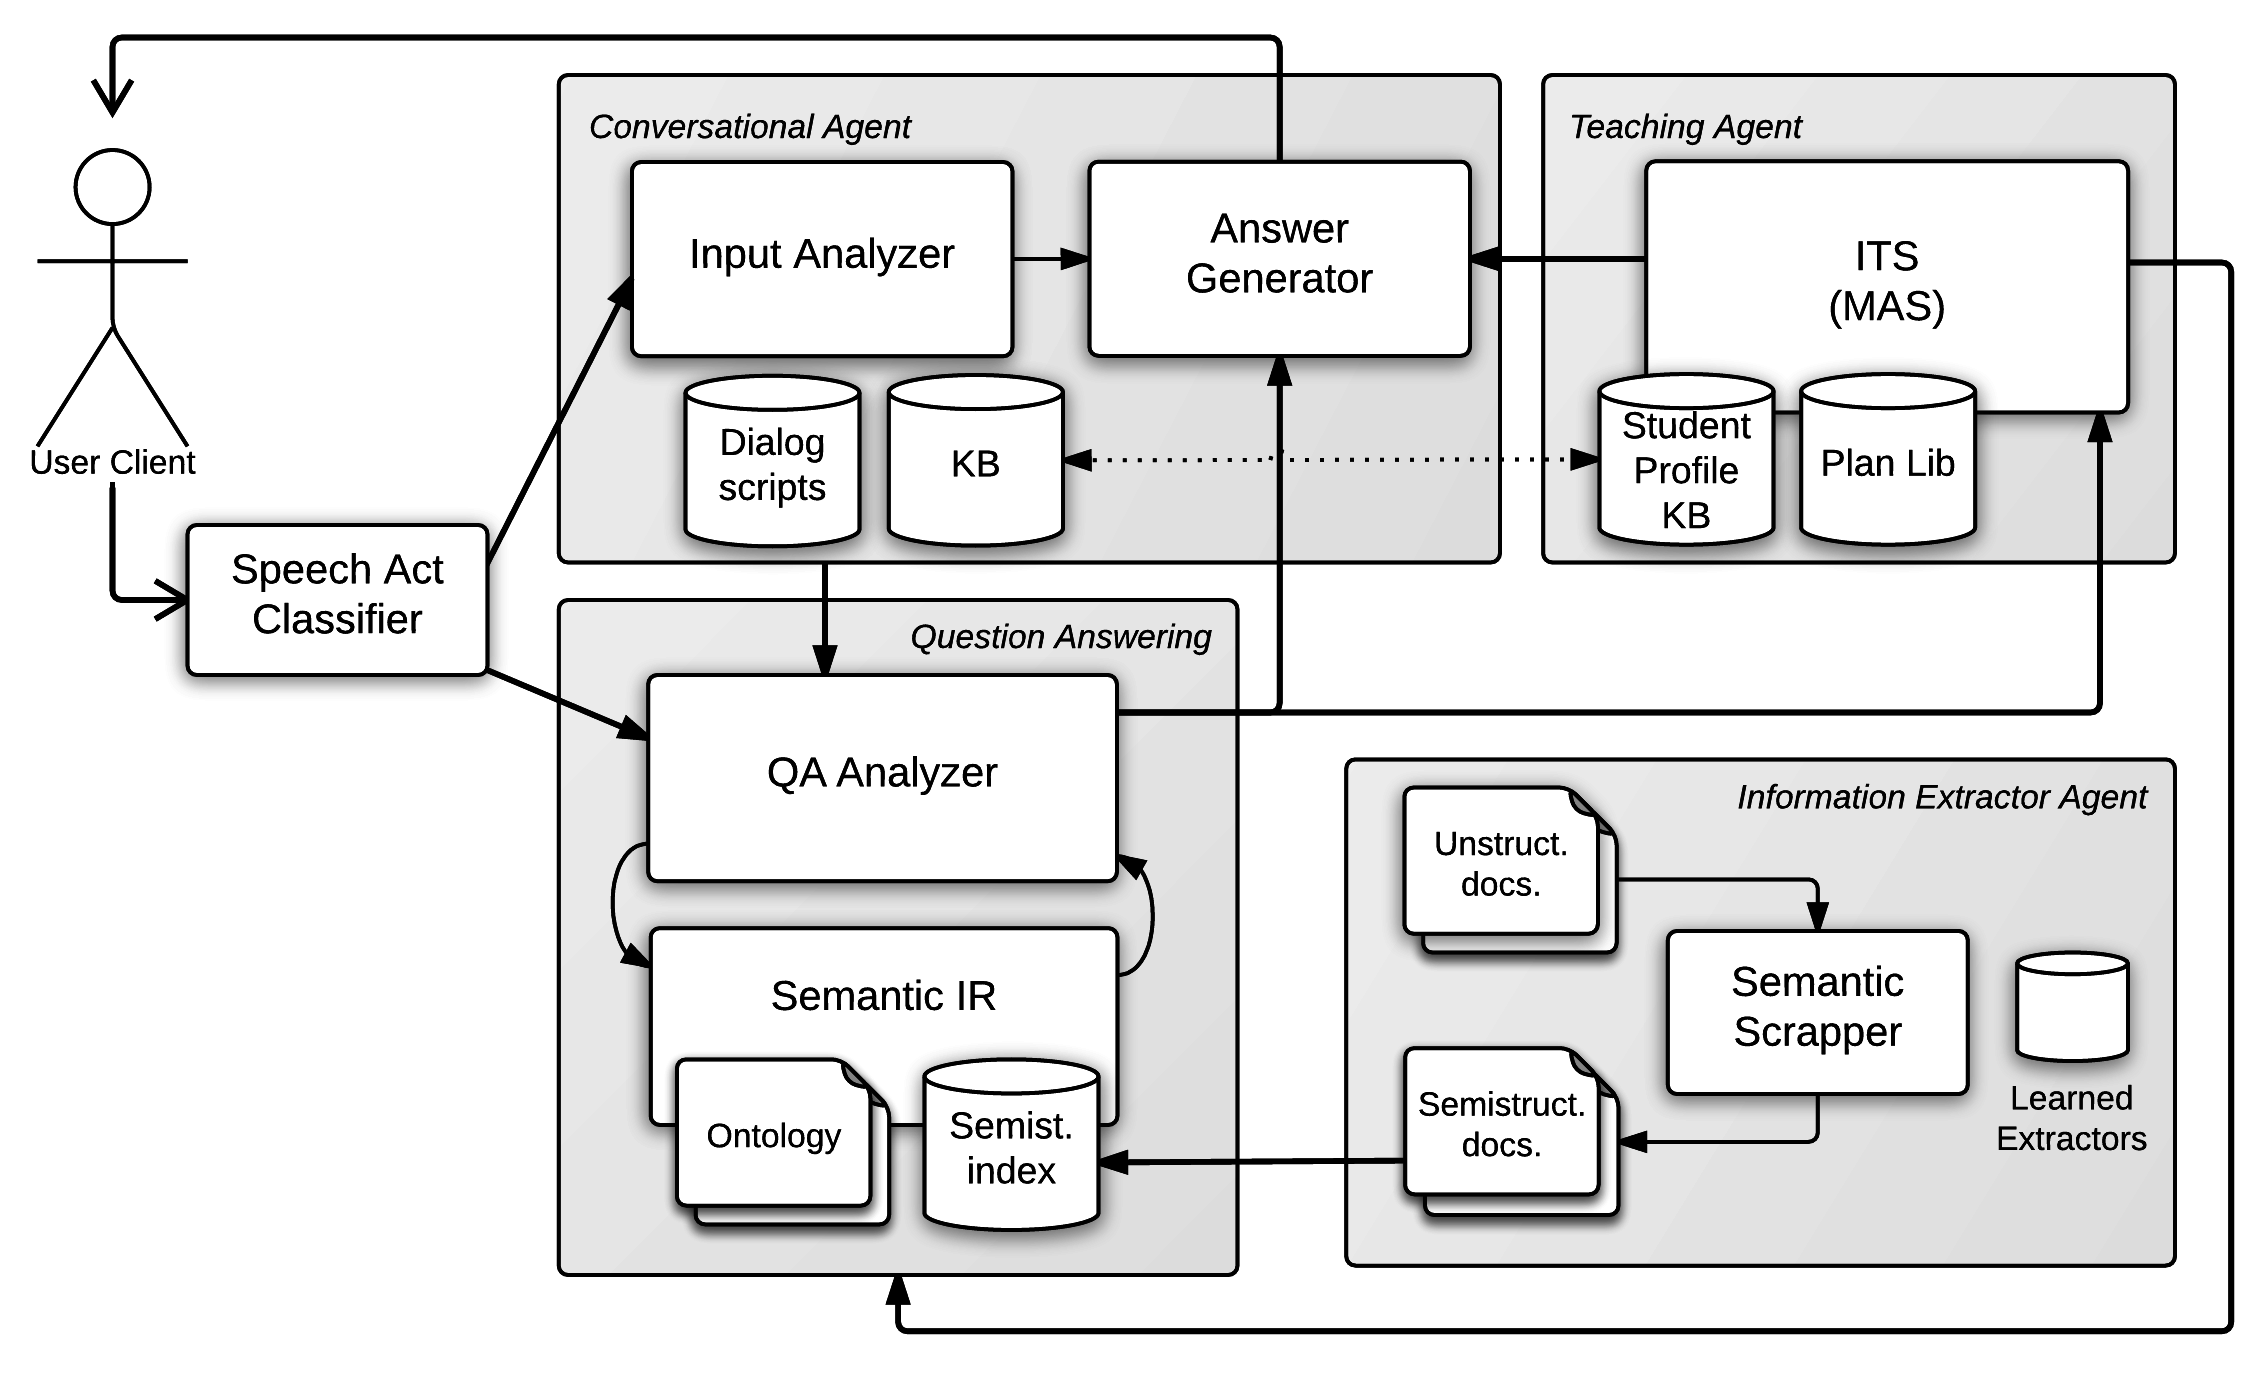
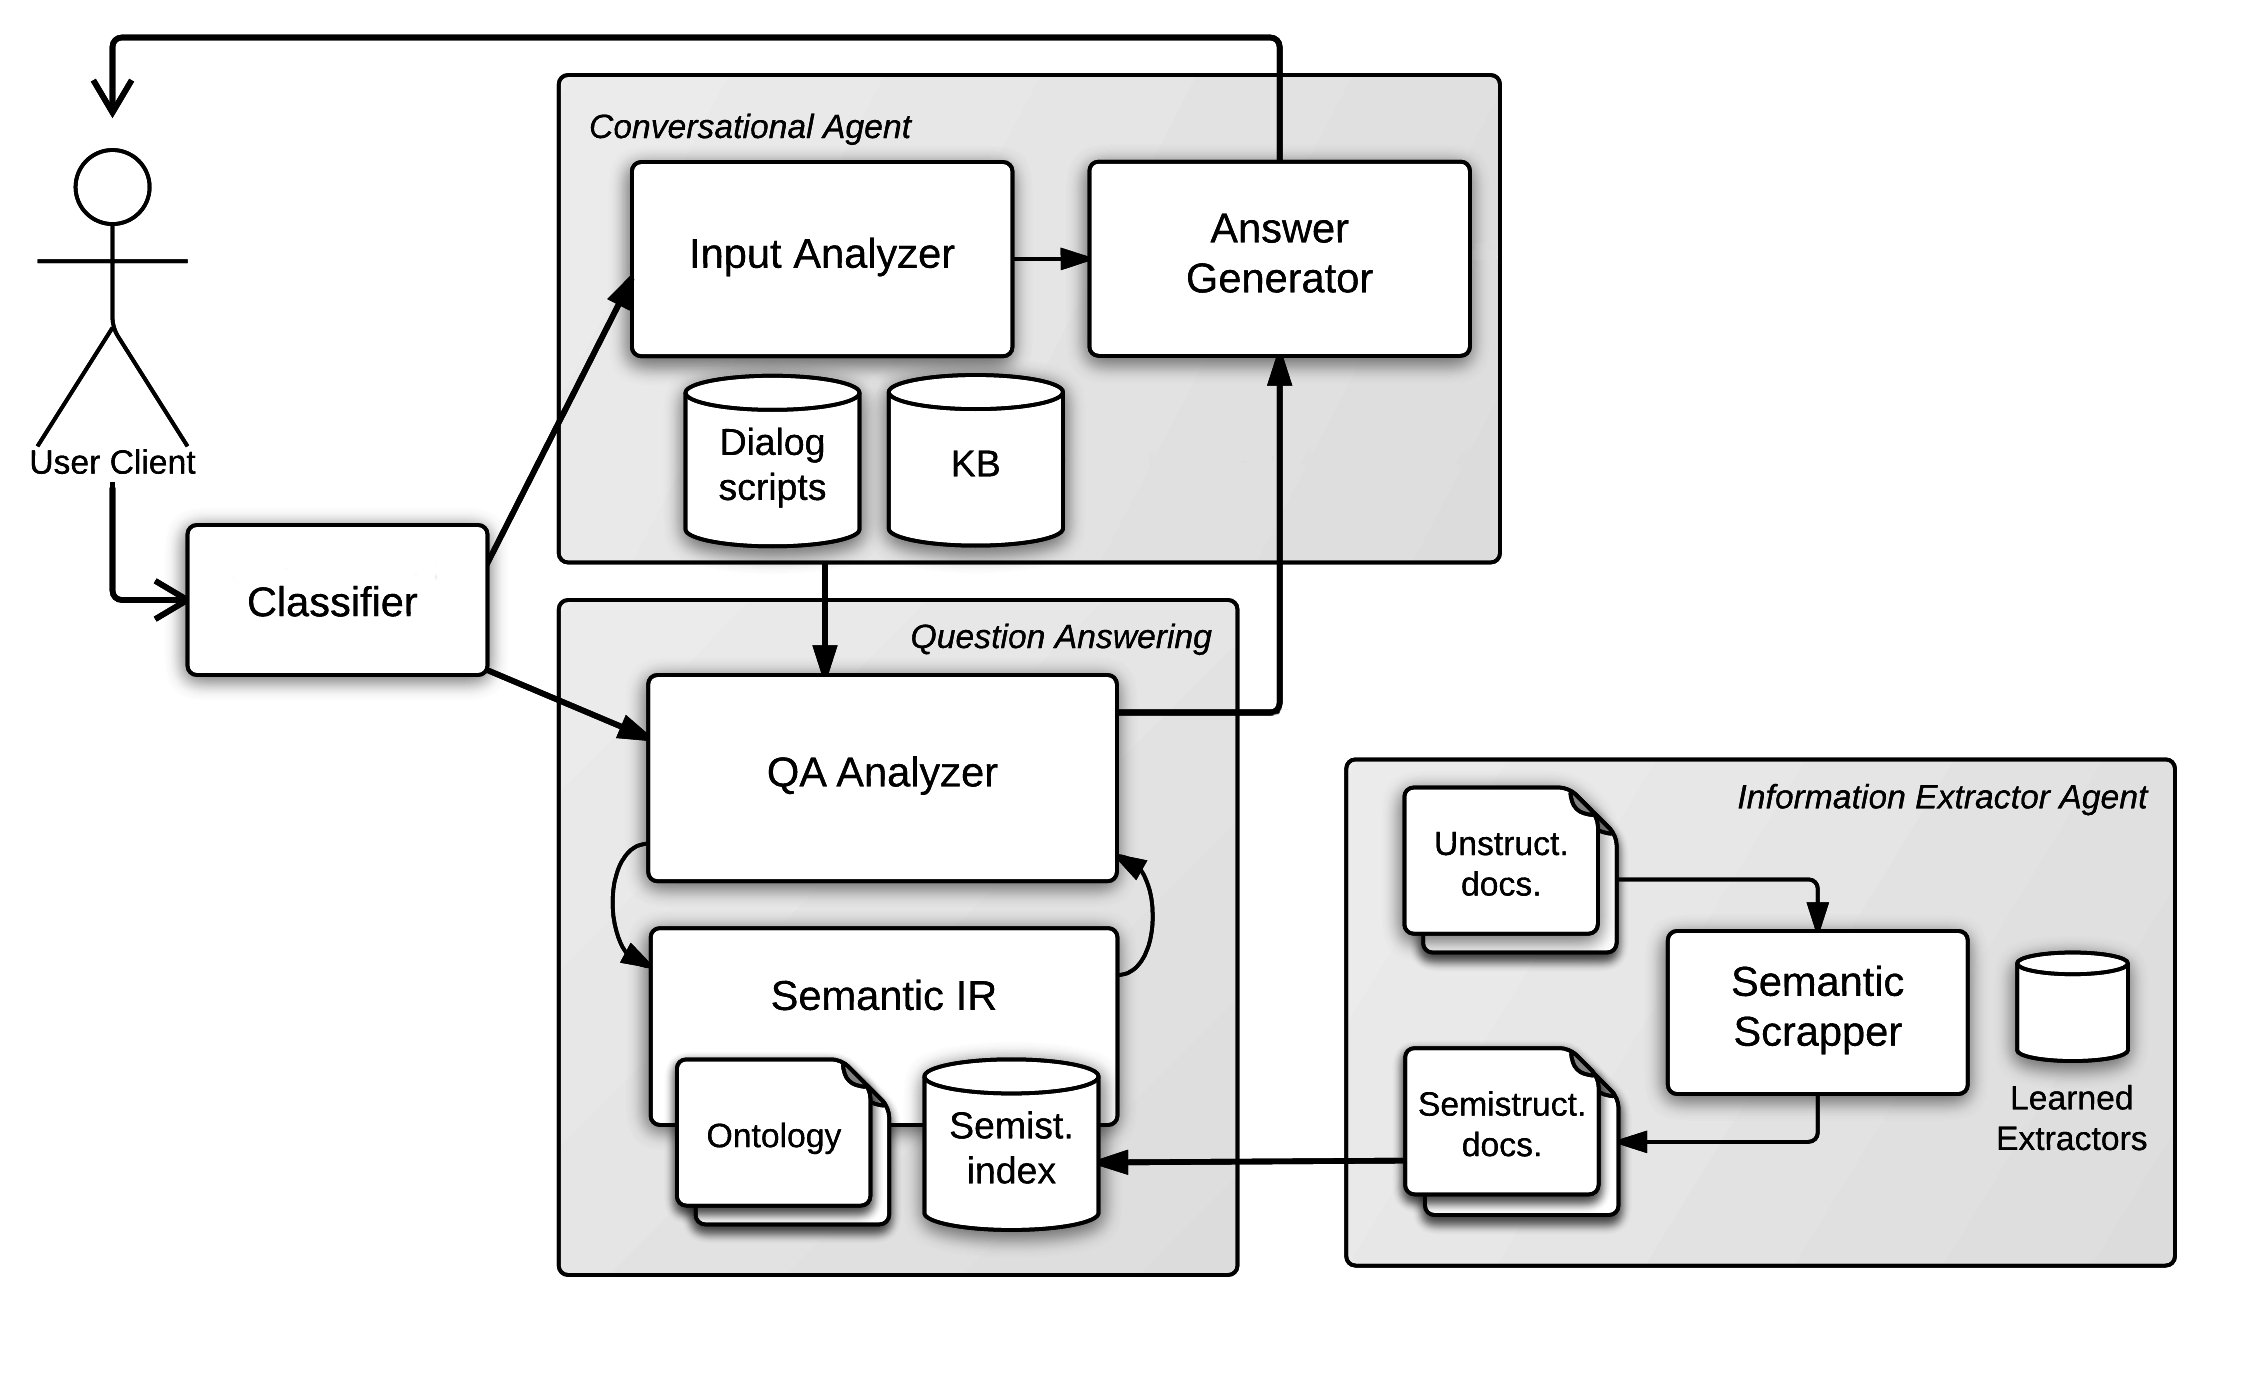
Modified architecture according to feedback

diff --git a/4-architecture.tex b/4-architecture.tex
@@ -14,14 +14,14 @@ In this section, we describe the overall architecture of a QA system that featur
 In this section we will describe the architecture of our system, starting with the modules identified in the requirements. These requirements are:
 \begin{enumerate}[noitemsep, label=(\roman*)]
  \item Present the user with a simple interface for their questions, and to present them with the answers.
- \item Classify each input according to the speech act it performs.
+ \item Classify each input  and handle it to the appropriate module.
  \item Track dialogue options according to the speech.
  \item Implement a QA system being able to search the document library and extract a short answer.
  \item Extend the documents library, scrapping external documents and producing semi-structured indexes.
  \item Follow up the learning process, and use it to improve the learning experience. 
 \end{enumerate}
 
-In figure \ref{fig:arch1} we show the global architecture of the system, identifying four main modules: Conversational Agent, Teaching Agent, Question Answering and Information Extraction Agent. In the rest of this section we will discuss the function of each module.
+In figure \ref{fig:arch1} we show the global architecture of the system, identifying the main modules: Conversational Agent, Question Answering and Information Extraction Agent. In the rest of this section we will discuss the function of each module.
 
 \begin{figure}[!htbp]
     \centering
@@ -30,7 +30,7 @@ In figure \ref{fig:arch1} we show the global architecture of the system, identif
     \label{fig:arch1}
 \end{figure}
 
-The speech act classifier receives the user queries. It provides an endpoint that the user-agent (or different user-agents) uses to post the requests and obtain responses (i.e. the system interface). The speech act classifier routes the user query to the conversational agent or the \ac{QA} modules depending on the speech act detected. Nevertheless, the architecture may be extended with additional modules that handle other speech acts. This classifier is usually implemented using a supervised machine learning approach with algorithms such as decision trees or naive Bayes that provide decent results for this purpose~\cite{Samei2014,Moldovan2011}. The classifier carries out a preliminary analysis of the query, since other modules will perform a deeper analysis of the input depending on the speech act they handle.
+The classifier receives the user queries. It provides an endpoint that the user-agent (or different user-agents) uses to post the requests and obtain responses (i.e. the system interface). The classifier then routes the user query to the conversational agent or the \ac{QA} modules depending on how the input is classified. Nevertheless, the architecture may be extended with additional modules for multiple types of input. This classifier is usually implemented using a supervised machine learning approach with algorithms such as decision trees or naive Bayes that provide decent results for this purpose~\cite{Samei2014,Moldovan2011}. The classifier carries out a preliminary analysis of the query, since other modules will perform a deeper analysis of the input depending on the kind of input they handle.
 
 \subsection{Conversational Agent}
 
@@ -39,8 +39,8 @@ The Input Analyser inside the Conversational Agent, performs a script based anal
 
 The Conversational Agent, by means of the Answer Generator, is also in change of generating the answers that will be sent to the users. These are also stored in the dialogue scripts. 
 In the most common scenario, the small talk input is analysed by the Input Analyser and tells the Answer Generator to given a particular answer in response.
-However, the \ac{QA} and the Teaching Agent modules can also instruct the Answer Generator to send a response to the user.
-In those cases, the Conversational Agent generates the answer according to the topic and former utterances, giving it a particular touch when needed.
+However, the \ac{QA} can also instruct the Answer Generator to send a response to the user.
+In that case, the Conversational Agent generates the answer according to the topic and former utterances, giving it a particular touch when needed.
 Besides the textual response that is presented to the user, the answer is decorated with meta-data to provide further information about the state of the Conversational Agent. Typically, they indicate the mood of the agent, its facial expressions and gestures (possible implemented using \ac{BML}), etc.
 
 
@@ -60,8 +60,8 @@ When the semantic \ac{IR} is not available --either because the incoming query i
 %  The main advantage of including semantic IR is that it will provide a result, depending on the quality of the documents, the quality of the result may vary, but in most cases (but when there is no relevant document at all) it will produce a result.
 If no relevant document is returned by the \ac{IR}, the \ac{QA} is not capable to give a response, and thus the Answer Generator will inform the user. 
 
-Moreover, the Semantic \ac{IR} may also be queried by external modules, e.g. the Teaching Agent. The treatment given to the query is the same as when it comes from the QA Analyser.
-Finally, the conversational agent may derive a query to the \ac{QA} in those cases where the Speech Act Classifier miss-classifies the query, and more frequently with those utterances where the user	 asks for more information. In this case, the \ac{QA} system needs further information to perform the document retrieval. Thus, the conversational agent will expand the query and route it to the \ac{QA}.
+Moreover, the Semantic \ac{IR} may also be queried by external modules. The treatment given to the query is the same as when it comes from the QA Analyser.
+Finally, the conversational agent may derive a query to the \ac{QA} in those cases where the Classifier miss-classifies the query, and more frequently with those utterances where the user	 asks for more information. In this case, the \ac{QA} system needs further information to perform the document retrieval. Thus, the conversational agent will expand the query and route it to the \ac{QA}.
 
 
 \subsection{Information Extractor}
@@ -72,14 +72,6 @@ This is a slow process, so it cannot be performed in near real-time; instead, un
 This automatic information extraction mechanism is a best-effort process that relies on the information on the sources, and the ontologies used to map that information. Semantic scrappers such as Scrappy~\cite{villamor13} may boost this process.
 Alternatively, a system administrator may also manually include documents on the \ac{IR} index, but also mark them to be processed by the Information Extractor Agent and index them afterwards.
 
-\subsection{Teaching agent}
-
-The {\em Teaching Agent} supervises the learning process of the users, and is in charge of improving their learning experience.
-To do so, it  gathers information about all interactions of the user with the system. This information is obtained from the \ac{KB} of the Conversational Agent (or derived from it) which is synchronized with the Student Profile KB of the \ac{ITS}.
-An \ac{ITS} is usually implemented as a \ac{MAS} of \ac{BDI} agents. In that case, the Student Profile KB is included in the \ac{BB} of the agent. 
-
-% I don't really know if this should go here or not...
-%\section{Prototype}
 %
 \section{Work process} % Revise this title
 
